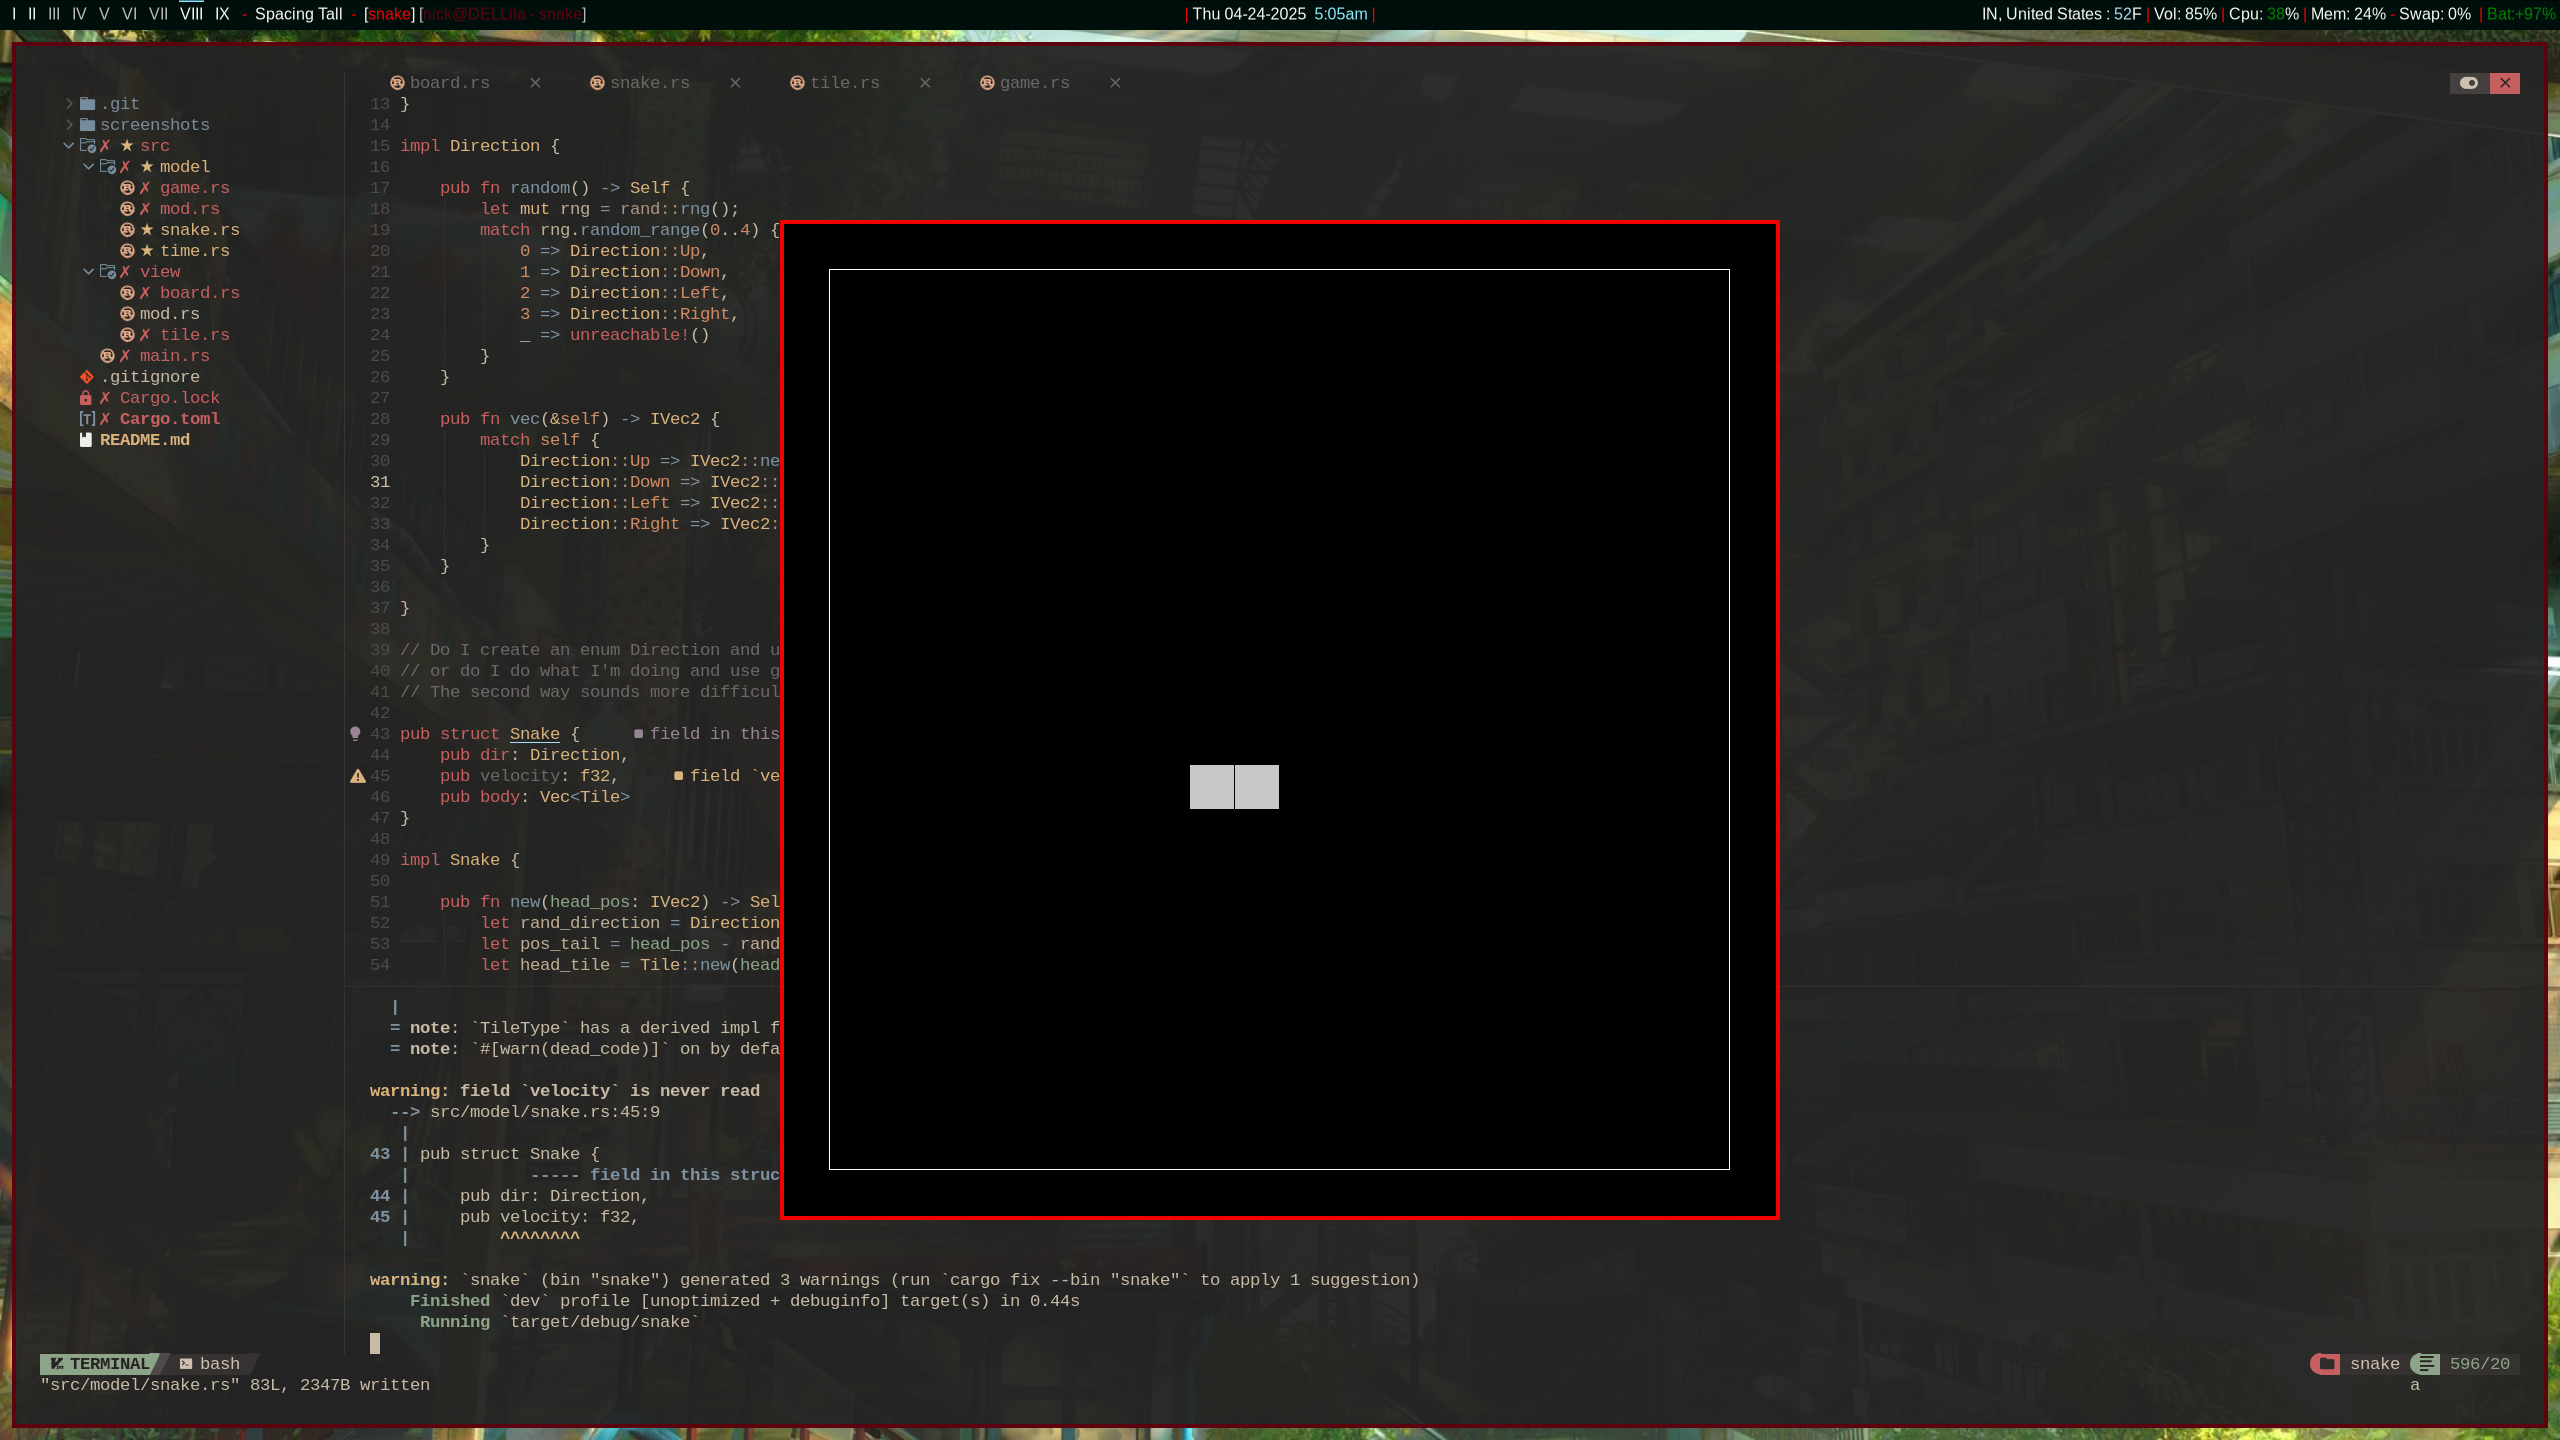
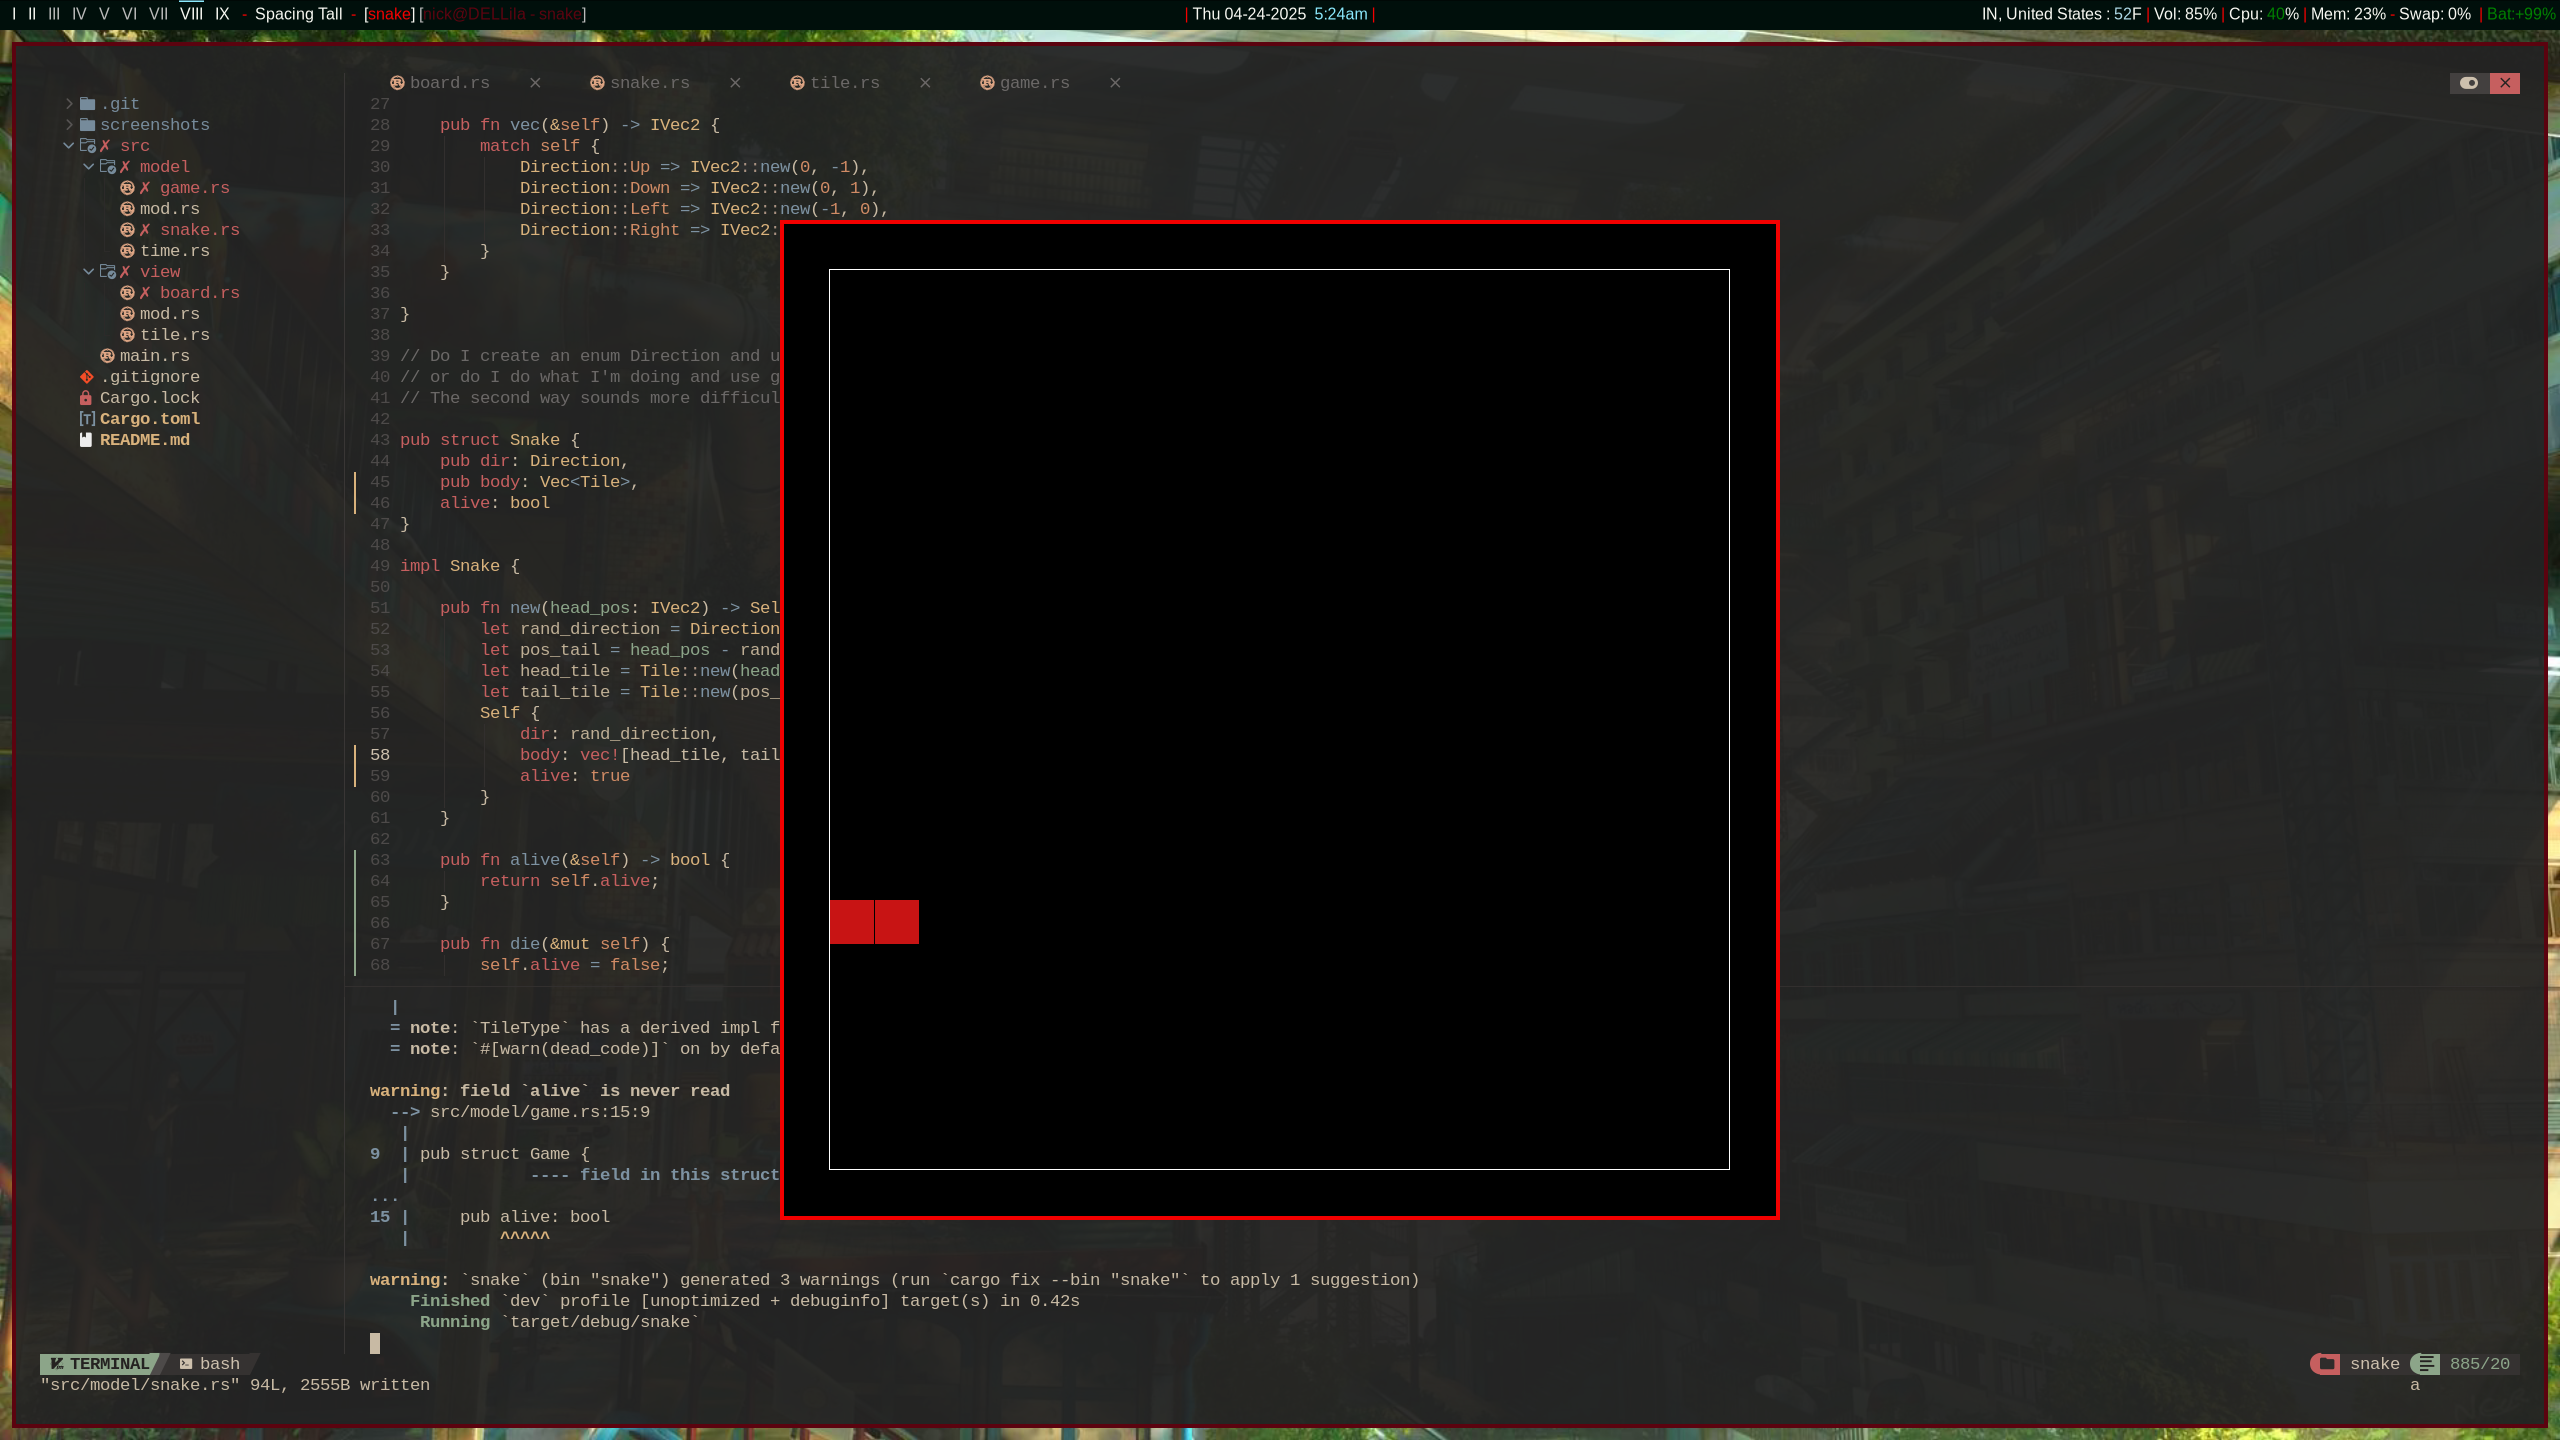
fixed the crash when snake should die, and turn snake red when dead

diff --git a/src/model/game.rs b/src/model/game.rs
@@ -11,7 +11,8 @@ pub struct Game {
     //wnd_height: u32,
     pub board: Board,
     pub snake: Snake,
-    pub ft: FrameTimer
+    pub ft: FrameTimer,
+    pub alive: bool
 }
 
 impl Game {
@@ -24,7 +25,8 @@ impl Game {
                                 (window_height/20 - 5).try_into().unwrap(),
                                 window_width*9/10, window_height*9/10),
             snake: Snake::new(IVec2 {x: 10, y: 10}),
-            ft: FrameTimer::new()
+            ft: FrameTimer::new(),
+            alive: true
         }
     }
 
@@ -44,13 +46,20 @@ impl Game {
         // TODO: Update according to game logic
         //
         // If 50 milliseconds has passed since last update, update
-        if !self.ft.mark(50) {
+        if !self.ft.mark(100) {
             return;
         }
-
-
-        if self.snake.within_board() {
-            self.snake.move_once(&mut self.board);
+        
+        if self.snake.alive() {
+            if self.snake.within_board() {
+                self.snake.move_once(&mut self.board);
+            }
+            else {
+                self.snake.die();
+            }
+        }
+        else {
+            
         }
     }
 

diff --git a/src/view/board.rs b/src/view/board.rs
@@ -37,7 +37,7 @@ impl Board {
     pub fn render(&mut self, snake: &Snake, canvas: &mut Canvas<Window>) {
         self.draw_edges(canvas);
         self.draw_snake(snake);
-        self.draw_tiles(canvas);
+        self.draw_tiles(snake, canvas);
     }
 
     fn draw_edges(&self, canvas: &mut Canvas<Window>) {
@@ -73,7 +73,7 @@ impl Board {
         }
     }
 
-    fn draw_tiles(&self, canvas: &mut Canvas<Window>)
+    fn draw_tiles(&self, snake: &Snake, canvas: &mut Canvas<Window>)
     {
         for y in 0..20 {
             for x in 0..20 {
@@ -87,7 +87,13 @@ impl Board {
                         self.draw_tile(x, y, canvas);
                     }
                     _ => {
-                        canvas.set_draw_color(Color::RGB(200, 200, 200));
+                        // Snake
+                        if snake.alive() {
+                            canvas.set_draw_color(Color::RGB(200, 200, 200));
+                        }
+                        else {
+                            canvas.set_draw_color(Color::RGB(200, 20, 20));
+                        }
                         self.draw_tile(x, y, canvas);
                     } 
                 }

diff --git a/src/model/snake.rs b/src/model/snake.rs
@@ -42,8 +42,8 @@ impl Direction {
 
 pub struct Snake {
     pub dir: Direction,
-    pub velocity: f32,
-    pub body: Vec<Tile>
+    pub body: Vec<Tile>,
+    alive: bool
 }
 
 impl Snake {
@@ -55,14 +55,25 @@ impl Snake {
         let tail_tile = Tile::new(pos_tail.x, pos_tail.y, TileType::SnakeBody);
         Self {
             dir: rand_direction,
-            velocity: 0.25, // Temporary value
-            body: vec![head_tile, tail_tile]
+            body: vec![head_tile, tail_tile],
+            alive: true
         }
     }
 
+    pub fn alive(&self) -> bool {
+        return self.alive;
+    }
+
+    pub fn die(&mut self) {
+        self.alive = false;
+    }
+
     pub fn within_board(&self) -> bool {
-        return self.body[0].x >= 0 && self.body[0].y >= 0 
-            && self.body[0].x < 20 && self.body[0].y < 20
+        let nextx_head = self.body[0].x + self.dir.vec().x;
+        let nexty_head = self.body[0].y + self.dir.vec().y;
+
+        return nextx_head >= 0 && nextx_head < 20
+            && nexty_head >= 0 && nexty_head < 20;
     }
 
     pub fn move_once(&mut self, board: &mut Board) {
